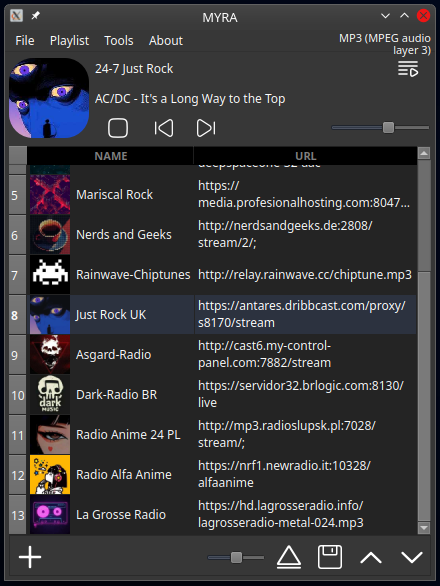
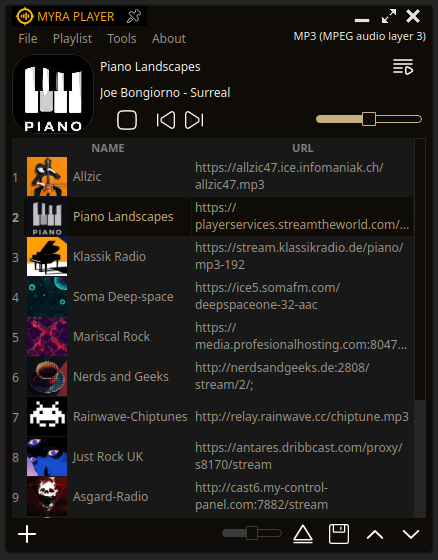
fix toggle playlist

diff --git a/ui/widget_player/skin_pp.py b/ui/widget_player/skin_pp.py
@@ -56,7 +56,7 @@ class Ui_MyraPlayer(object):
         self.verticalLayout_3.setObjectName(u"verticalLayout_3")
         self.verticalLayout_3.setContentsMargins(4, 4, 4, 4)
         self.verticalLayout_2 = QVBoxLayout()
-        self.verticalLayout_2.setSpacing(6)
+        self.verticalLayout_2.setSpacing(0)
         self.verticalLayout_2.setObjectName(u"verticalLayout_2")
         self.fm_top = QFrame(self.centralwidget)
         self.fm_top.setObjectName(u"fm_top")
@@ -70,6 +70,7 @@ class Ui_MyraPlayer(object):
         self.horizontalLayout_2.setContentsMargins(0, 0, 0, 0)
         self.horizontalLayout = QHBoxLayout()
         self.horizontalLayout.setObjectName(u"horizontalLayout")
+        self.horizontalLayout.setContentsMargins(-1, -1, -1, 0)
         self.fm_cover = QFrame(self.fm_top)
         self.fm_cover.setObjectName(u"fm_cover")
         self.fm_cover.setMinimumSize(QSize(80, 80))
@@ -197,15 +198,20 @@ class Ui_MyraPlayer(object):
 
         self.widget = QWidget(self.centralwidget)
         self.widget.setObjectName(u"widget")
+        sizePolicy = QSizePolicy(QSizePolicy.Policy.Preferred, QSizePolicy.Policy.Ignored)
+        sizePolicy.setHorizontalStretch(0)
+        sizePolicy.setVerticalStretch(0)
+        sizePolicy.setHeightForWidth(self.widget.sizePolicy().hasHeightForWidth())
+        self.widget.setSizePolicy(sizePolicy)
         self.vly_widget = QVBoxLayout(self.widget)
         self.vly_widget.setSpacing(0)
         self.vly_widget.setObjectName(u"vly_widget")
         self.vly_widget.setContentsMargins(0, 0, 0, 0)
-        self.verticalLayout_7 = QVBoxLayout()
-        self.verticalLayout_7.setSpacing(4)
-        self.verticalLayout_7.setObjectName(u"verticalLayout_7")
+        self.vly_playlist = QVBoxLayout()
+        self.vly_playlist.setSpacing(0)
+        self.vly_playlist.setObjectName(u"vly_playlist")
 
-        self.vly_widget.addLayout(self.verticalLayout_7)
+        self.vly_widget.addLayout(self.vly_playlist)
 
 
         self.verticalLayout_2.addWidget(self.widget)

diff --git a/main.py b/main.py
@@ -39,8 +39,11 @@ class MyraPlayer(WidgetFrameless):
         self.about.set_text('1.0', fg='salmon', br=True)
         self.about.set_text('https://github.com/a-tomy-c/myra', fg='lightblue')
         
-        
         # self.about.test()
+        # self.mv.fm_top.setStyleSheet('background:green;')
+        self.mv.fm_top.setMinimumHeight(84)
+        self.mv.fm_top.setMaximumHeight(84)
+        
 
     def toggle_playlist(self):
         self.set_text_info_aux('toggle playlist', fg='azure')
@@ -50,7 +53,7 @@ class MyraPlayer(WidgetFrameless):
             self.resize(430, 550)
         else:
             self.mv.widget.hide()
-            self.resize(430, 140)
+            self.resize(430, 142)
 
 if __name__ == "__main__":
     import sys

diff --git a/ui/widget_player/__init__.py b/ui/widget_player/__init__.py
@@ -28,6 +28,10 @@ class WidgetPlayer(QMainWindow, Ui_MyraPlayer):
         font = QFont()
         font.setPointSize(8)
         self.lb_info.setFont(font)
+        self.horizontalLayout_2.setContentsMargins(0,0,0,6)
+        self.horizontalLayout_2.setSpacing(0)
+        self.horizontalLayout.setSpacing(6) # espacio entre labels y imagen
+        self.horizontalLayout_3.setContentsMargins(4,4,4,0)
 
     def set_cover(self, image:str, size:int=80):
         """asigna cover al player"""

diff --git a/widget_frameless/__init__.py b/widget_frameless/__init__.py
@@ -79,7 +79,7 @@ class WidgetFrameless(QWidget, Ui_WidgetFrameless):
         self.btn_right.hide()
         self.lb_info.setAttribute(Qt.WA_TransparentForMouseEvents)
         self.lb_info_aux.setAttribute(Qt.WA_TransparentForMouseEvents)
-        self.hly_bar.setContentsMargins(4,0,0,0)
+        self.hly_bar.setContentsMargins(0,0,0,0)
 
         self._szgrip_se = QSizeGrip(self.fr_grip_se)
         self.hly_sb_grip_se.addWidget(self._szgrip_se)

diff --git a/README.md b/README.md
@@ -138,4 +138,5 @@ los items que no estan aqui o no estan marcados aun no hacen nada (no los he enl
 - fix: cerrar ventana
 - agregue la ventana dialogo (con info basica)
 - cambie el estilo del slider, para los iconos
+- fix toggle playlist 'spacing'
 
